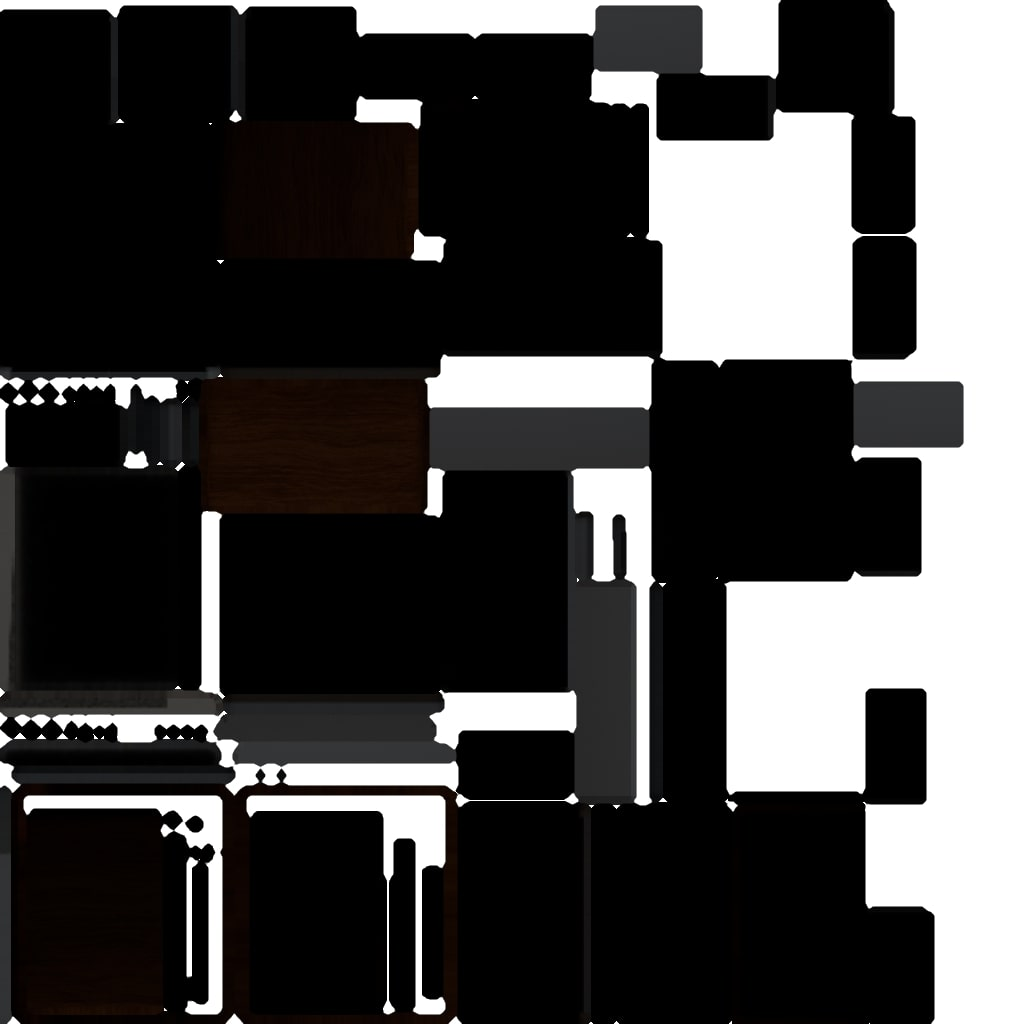
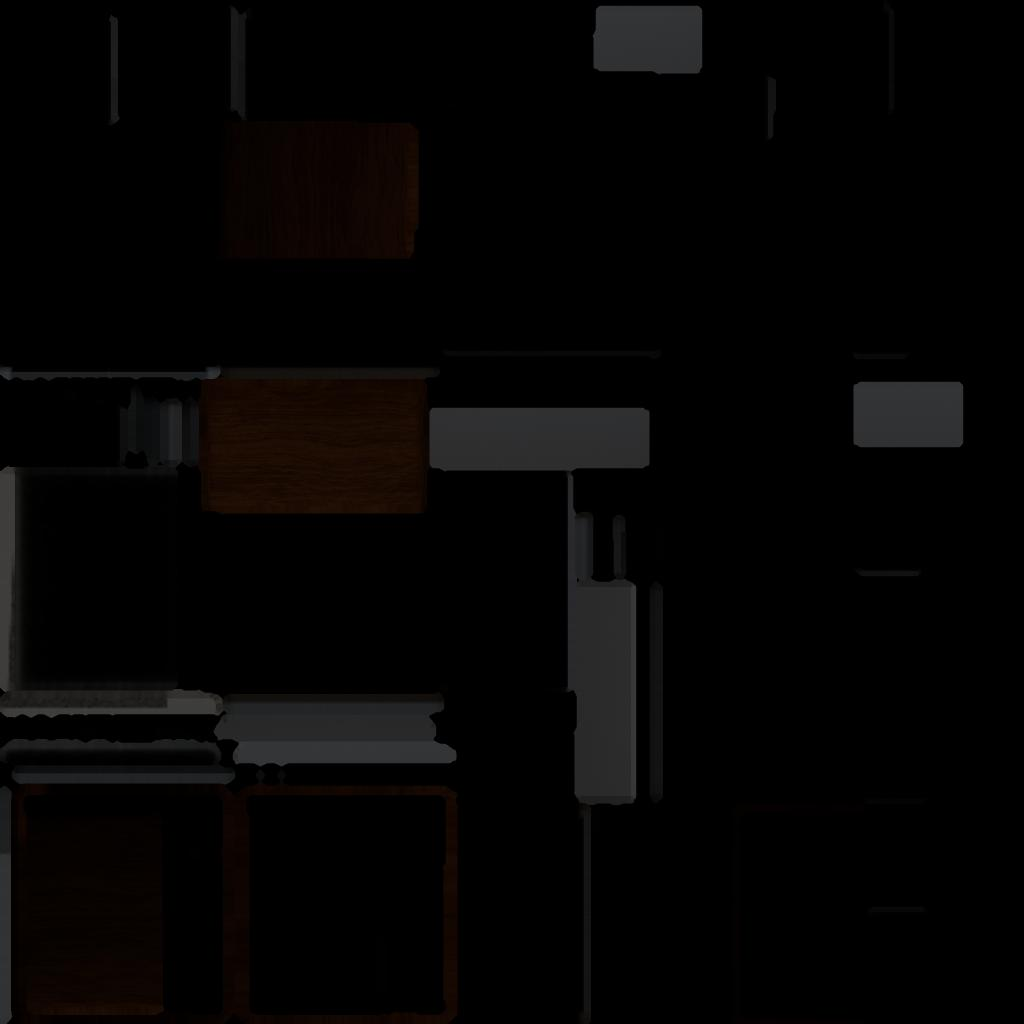
png to jpg (for hasty loading)

diff --git a/Room1/pngtojpg.py b/Room1/pngtojpg.py
@@ -1,0 +1,47 @@
+import os
+import sys
+from PIL import Image
+
+def png_to_blackjpg(input_path, output_path):
+    img = Image.open(input_path).convert("RGBA")
+
+    # Split RGBA channels
+    r, g, b, a = img.split()
+
+    # Multiply each RGB channel by alpha (scaled)
+    r = Image.eval(r, lambda x: x)
+    g = Image.eval(g, lambda x: x)
+    b = Image.eval(b, lambda x: x)
+
+    # Scale alpha to [0,1]
+    a_data = a.load()
+    r_data, g_data, b_data = r.load(), g.load(), b.load()
+    width, height = img.size
+
+    for y in range(height):
+        for x in range(width):
+            alpha = a_data[x, y] / 255
+            r_data[x, y] = int(r_data[x, y] * alpha)
+            g_data[x, y] = int(g_data[x, y] * alpha)
+            b_data[x, y] = int(b_data[x, y] * alpha)
+
+    # Merge back to RGB
+    new_img = Image.merge("RGB", (r, g, b))
+
+    # Save as JPEG
+    new_img.save(output_path, "JPEG")
+
+def batch_convert(folder_path):
+    for filename in os.listdir(folder_path):
+        if filename.lower().endswith(".png"):
+            input_path = os.path.join(folder_path, filename)
+            output_name = os.path.splitext(filename)[0] + ".jpg"
+            output_path = os.path.join(folder_path, output_name)
+            print(f"Converting {filename} -> {output_name}")
+            png_to_blackjpg(input_path, output_path)
+
+if __name__ == "__main__":
+    if len(sys.argv) != 2:
+        print("Usage: python script.py <folder_path>")
+    else:
+        batch_convert(sys.argv[1])
